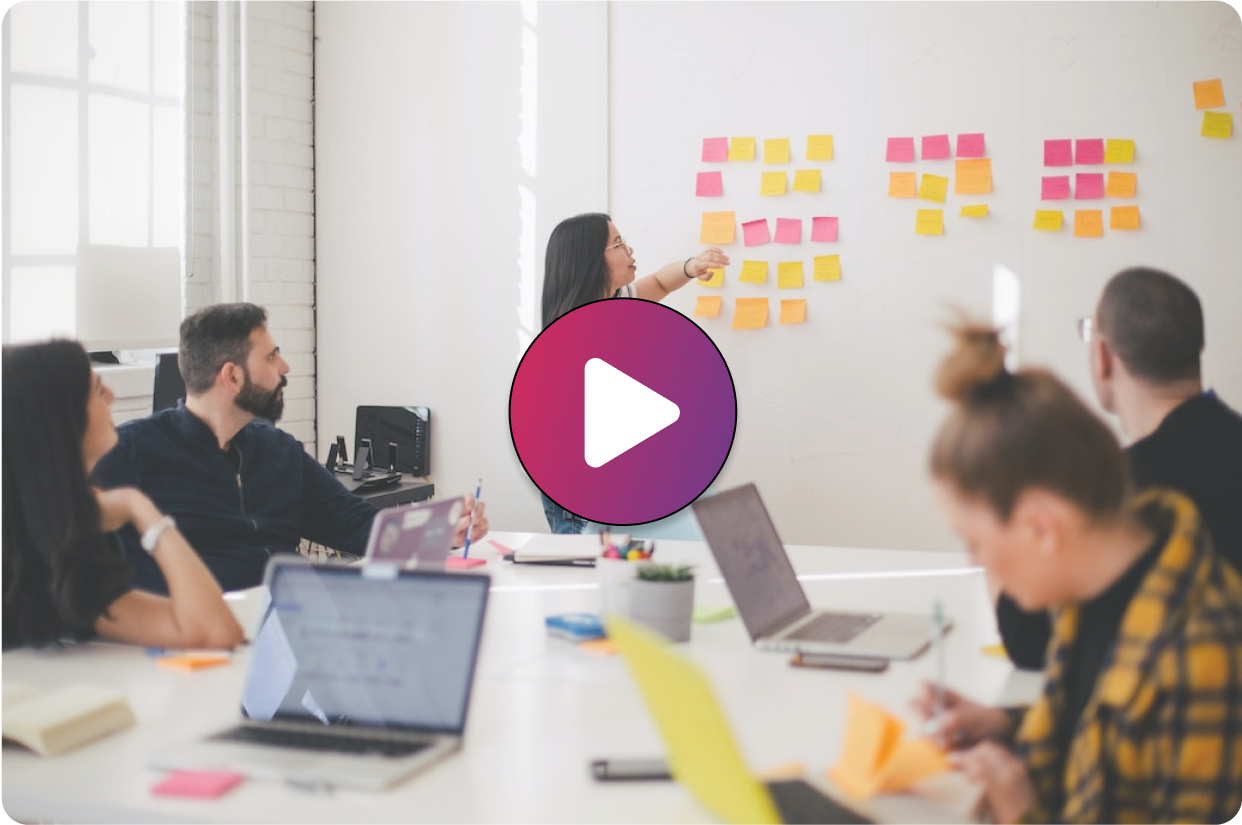
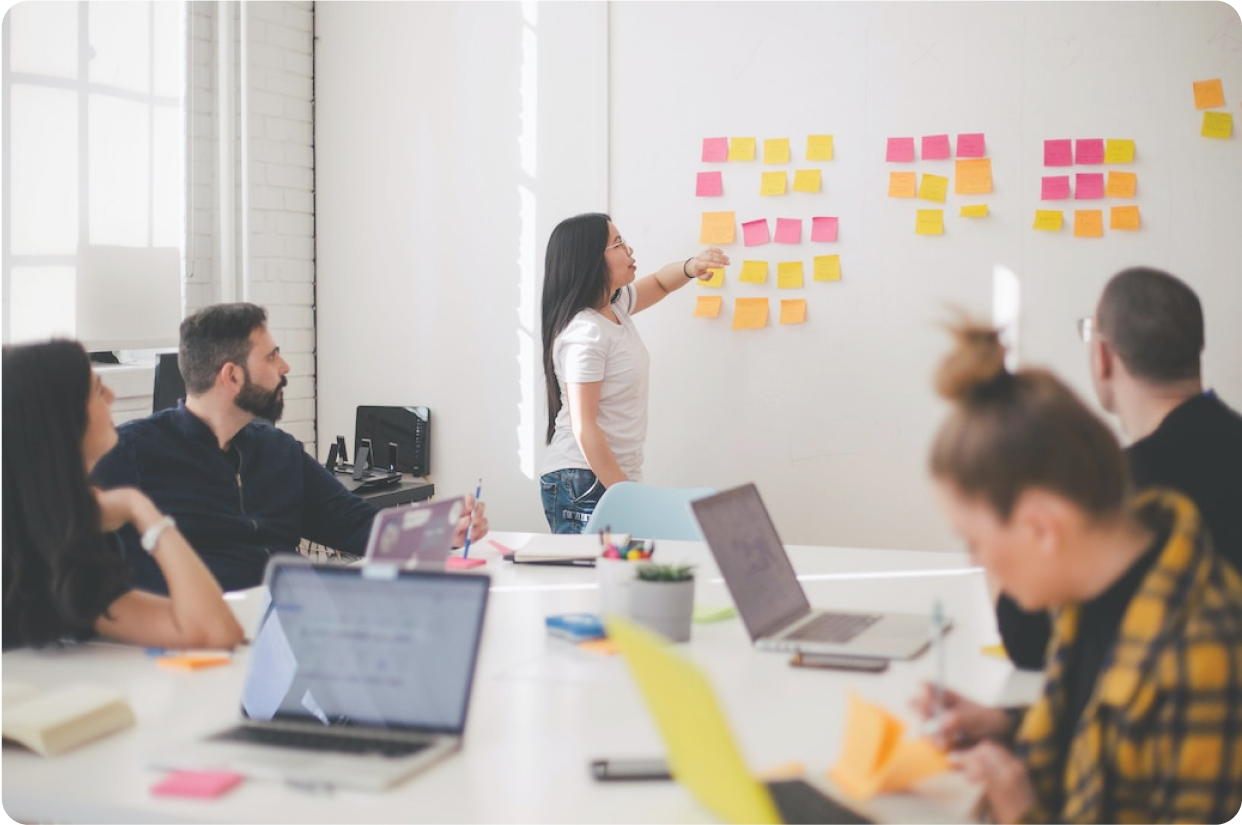
section services

Changed region(s): [[0.3977, 0.3636, 0.6119, 0.6667]]

diff --git a/TechLand/index.html b/TechLand/index.html
@@ -50,7 +50,7 @@
                 </nav>
                 <div class="sign-in__container">
                     <span class="language">
-                        <img class="language--flag" src="./img/header/IND-img.png" alt="">
+                        <img class="language--flag" src="./img/header/IND-img.png" alt="flag-con">
                         <p class="language--text">IND</p>
                     </span>
                     <button class="sign-in__button">Sign In</button>
@@ -63,10 +63,10 @@
             </div>
         </header>
         <section class="hero">
-            <img class="hero__img--bg vector" src="./img/hero/Vector-1.svg" alt="">
-            <img class="hero__img--bg gradient" src="./img/hero/Background-gradient-hero.png" alt="">
+            <img class="hero__img--bg vector" src="./img/hero/Vector-1.svg" alt="image">
+            <img class="hero__img--bg gradient" src="./img/hero/Background-gradient-hero.png" alt="image">
             <div class="container hero__container">
-                <img class="hero__img--bg thoughts" src="./img/hero/hero-main-img.png" alt="">
+                <img class="hero__img--bg thoughts" src="./img/hero/hero-main-img.png" alt="image">
                 <div class="hero__content">
                     <h1 class="title">Social Media Marketing Is The Best Ever</h1>
                     <p class="text hero__text">
@@ -78,11 +78,11 @@
                     </p>
                     <div class="hero-button__container">
                         <button class="main-button store-btn--google">
-                            <img src="./img/hero/google-playstore.svg" alt="">
+                            <img src="./img/hero/google-playstore.svg" alt="google-icon">
                             <p class="text main-button__text">Get it on <br><b>Google Play</b></p>
                         </button>
                         <button class="main-button store-btn--apple">
-                            <img src="./img/hero/ion_logo-apple.svg" alt="">
+                            <img src="./img/hero/ion_logo-apple.svg" alt="apple-icon">
                             <p class="text main-button__text">Download on the <br><b>App Store</b></p>
                         </button>
                     </div>
@@ -93,20 +93,45 @@
             <div class="container about-us__container">
                 <div class="about-us__content">
                     <h5 class="section__subtitle">ABOUT US</h5>
-                    <p class="content__title content__title--bold">Awesome Things</p>
+                    <p class="content__title">Awesome Things</p>
                     <p class="content__title content__title--light">About Unikbrushes</p>
                     <p class="text about-us__text">
                         Carpsucker surgeonfish streamer fish boga deepwater stingray.
                         Minnow arrowtooth eel darter Atlantic herring southern sandfish.
                         Vimba, zebrafish yellow and black triplefin guitarfish Redfin perch
                     </p>
-                    <button class="border-button">More About</button>
+                    <div class="gradient-button">
+                        <button class="border-button">More About</button>
+                    </div>
                 </div>
-                <div class="about-us__video">
-                    <div src="">
-                        <span class="play-button">
-                            <img src="#" alt="">
-                        </span>
+                <!-- <div class="about-us__video"> -->
+                <button class="about-us__video">
+                    <img class="play-button" src="./img/about-us/play_btn.svg" alt="">
+                </button>
+                <!-- </div> -->
+            </div>
+        </section>
+        <section class="services">
+            <div class="container services__container">
+                <h5 class="section__subtitle services__subtitle">SERVICES</h5>
+                <p class="content__title services__title">What We Offer</p>
+                <div class="offer-block">
+                    <div class="offer-block__item">
+                        <svg class="offer-block__item--icon" xmlns="http://www.w3.org/2000/svg" width="111" height="111" viewBox="0 0 111 111"
+                            fill="none">
+                            <circle cx="55.4929" cy="55.5" r="55" fill="url(#paint0_linear_1_147)" />
+                            <defs>
+                                <linearGradient id="paint0_linear_1_147" x1="16.8443" y1="-5.0797" x2="122.899"
+                                    y2="28.1123" gradientUnits="userSpaceOnUse">
+                                    <stop stop-color="#CC2B5E" />
+                                    <stop offset="1" stop-color="#753A88" />
+                                </linearGradient>
+                            </defs>
+                        </svg>
+                        <div class="offer-block__item--text">
+                            <p></p>
+                            <p></p>
+                        </div>
                     </div>
                 </div>
             </div>

diff --git a/TechLand/style/style.css b/TechLand/style/style.css
@@ -66,6 +66,7 @@ body {
 
 button {
   cursor: pointer;
+  border: none;
 }
 
 .main-button {
@@ -146,6 +147,10 @@ button {
   max-height: 57.7px;
 }
 
+.get-it-touch__button:hover {
+  transform: scale(1.1);
+  color: var(--page-color);
+}
 
 .menu__btn {
   display: flex;
@@ -249,6 +254,11 @@ button {
   border-radius: 41.7px;
 }
 
+.store-btn--google:hover {
+  transform: scale(1.1);
+  color: var(--page-color);
+}
+
 .store-btn--apple {
   display: flex;
   flex-direction: row;
@@ -258,11 +268,115 @@ button {
   border-radius: 41.7px;
 }
 
+.store-btn--apple:hover {
+  transform: scale(1.1);
+  color: var(--page-color);
+}
+
 /* Hero END*/
 
 
 /* About us */
 
+.about-us__container {
+  display: flex;
+  gap: 70px;
+  flex-grow: 1;
+  margin-bottom: 153.5px;
+}
 
+.about-us__content {
+  max-width: 575px;
+}
+
+.section__subtitle {
+  font: var(--nunito-bold-font);
+  font-size: 20px;
+  color: var(--decor-text-rose-color);
+  margin-bottom: 35px;
+}
+
+.content__title--light {
+  font-weight: 300;
+  margin-bottom: 35px;
+}
+
+.about-us__text {
+  margin-bottom: 75.5px;
+  color: var(--sub-text);
+}
+
+.gradient-button {
+  display: flex;
+  align-items: center;
+  background: var(--main-gradient-color);
+  padding: 1px;
+  border-radius: 35.5px;
+  max-width: 166px;
+  transition: all 0.5s;
+}
+
+.gradient-button:hover {
+  transform: scale(1.1);
+}
+
+.border-button {
+  display: flex;
+  align-items: center;
+  padding: 16px 32px;
+  border-radius: 35.5px;
+  background: var(--page-color);
+  max-height: 57.7px;
+  font: var(--quicksand-regular-font);
+  color: inherit;
+  transition: all 0.5s;
+}
+
+.border-button:hover {
+  background: var(--main-gradient-color);
+  color: var(--page-color);
+}
+
+.about-us__video {
+  min-width: 620px;
+  height: 412px;
+  border-radius: 13.4px;
+  background: url(/TechLand/img/about-us/Video_1-about-us_page.jpg);
+  background-size: cover;
+  display: flex;
+  align-items: center;
+  justify-content: center;
+}
+
+.play-button {
+  background-color: transparent;
+  transition: all 0.5s;
+}
+
+.about-us__video:hover .play-button {
+  transform: scale(1.2);
+}
 
 /* About us END*/
+
+.services__container {
+  text-align: center;
+}
+
+.services__subtitle {
+  margin-bottom: 14.2px;
+}
+
+.services__title {
+  margin-bottom: 108px;
+}
+
+.offer-block {
+  display: grid;
+  grid-template-columns: repeat(2, 1fr);
+}
+
+.offer-block__item {
+  padding: 30px 50px;
+  display: flex;
+}
